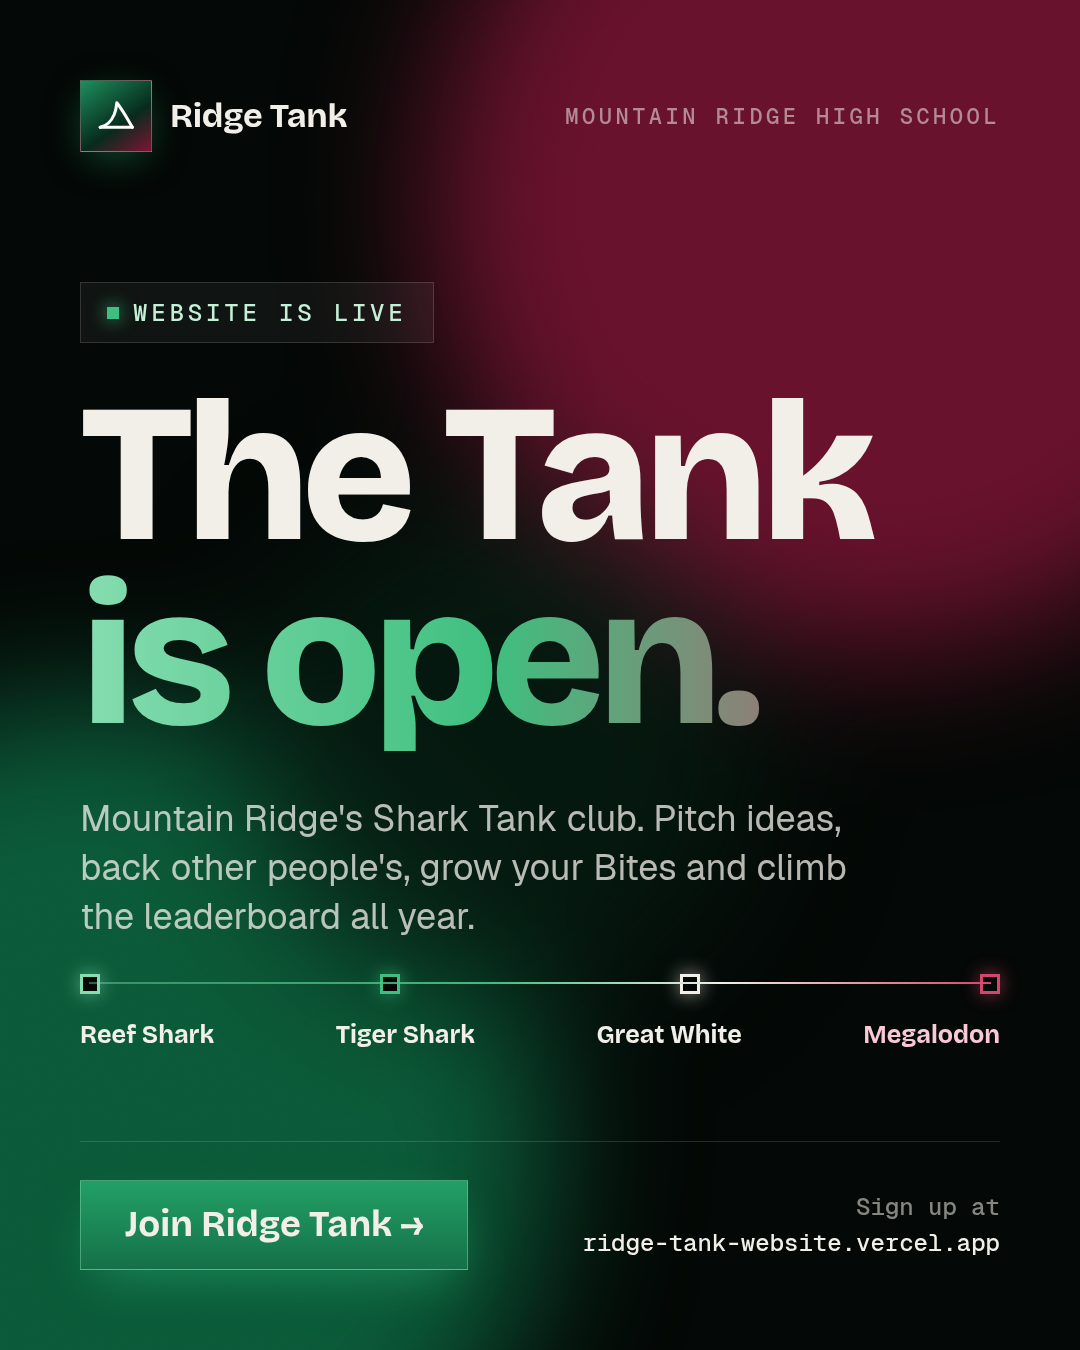
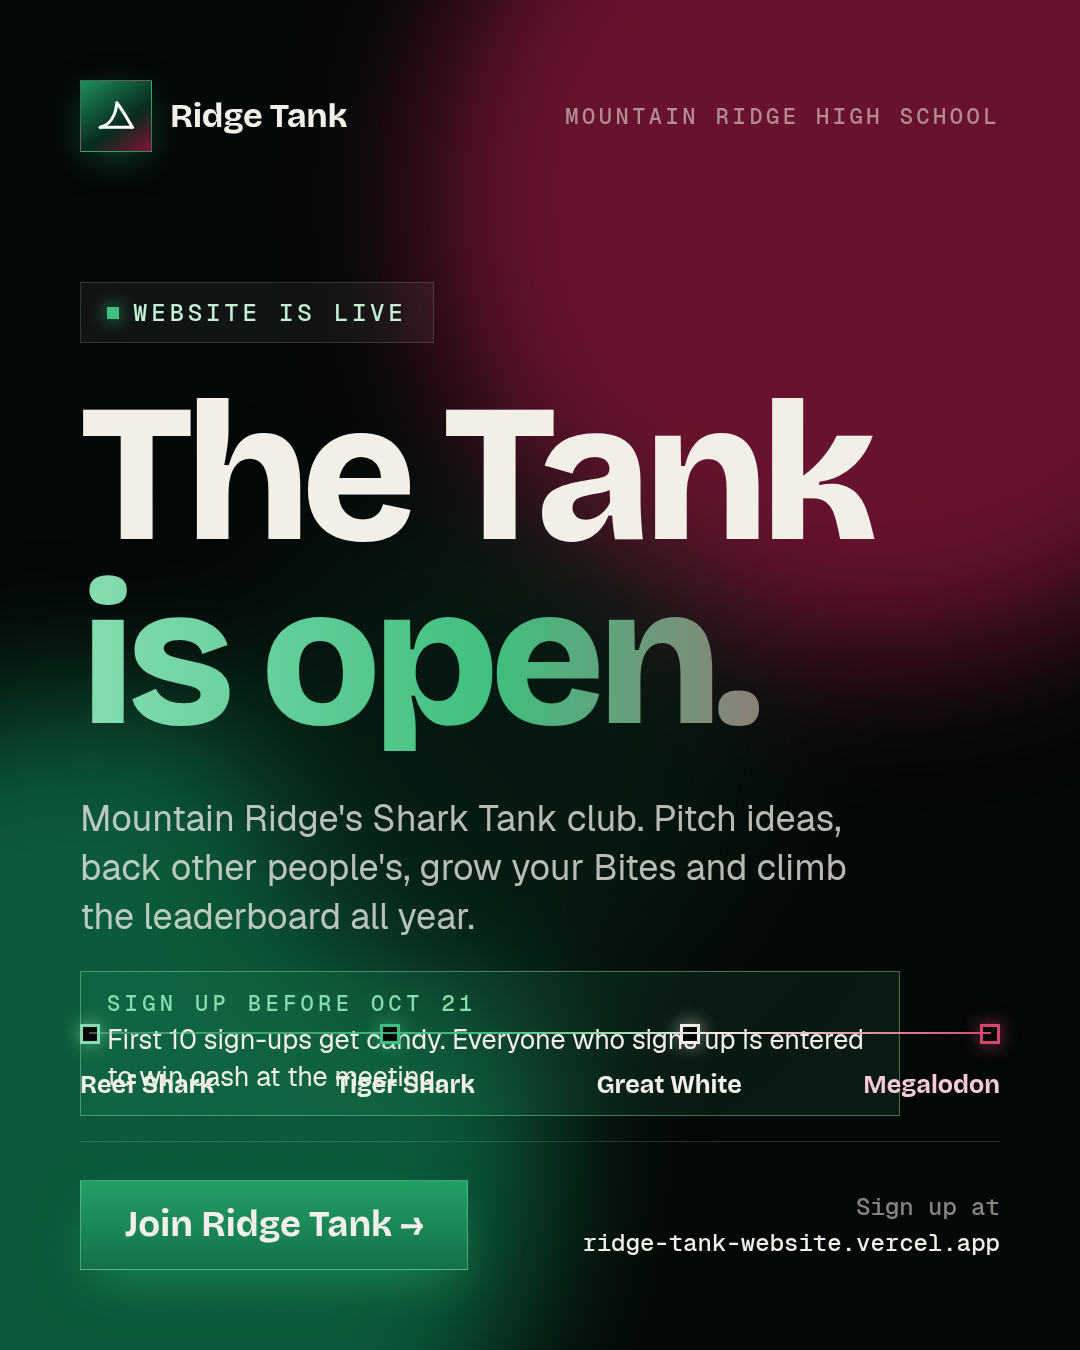
Sign-up incentive: landing promo, officer candy list + cash draw, poster update (#16)
Claude-Session: https://claude.ai/code/session_01BMEovW6ojWDG59xXo4X1Pt

Changed region(s): [[0.0611, 0.7156, 0.9472, 0.8089]]

diff --git a/js/market.js b/js/market.js
@@ -139,7 +139,8 @@
     const claimsBox = h('div', { class: 'card' });
     const bountyBox = h('div', { class: 'card' });
     const decayBox = h('div', { class: 'card' });
-    pane.append(h('div', { class: 'two-col' }, bountyBox, claimsBox), decayBox);
+    const rewardBox = h('div', { class: 'card' });
+    pane.append(h('div', { class: 'two-col' }, bountyBox, claimsBox), h('div', { class: 'two-col' }, rewardBox, decayBox));
 
     let bounties = [], claims = [];
     async function load() {
@@ -150,7 +151,32 @@
         return;
       }
       bounties = b.data; claims = c.data;
-      drawBounties(); drawClaims(); drawDecay();
+      drawBounties(); drawClaims(); drawDecay(); drawRewards();
+    }
+
+    // Sign-up rewards: who gets the candy (first 10 to sign up) and a random cash-prize draw.
+    function drawRewards() {
+      const members = [...(A.members || [])].sort((a, b) => new Date(a.created_at) - new Date(b.created_at));
+      const first = members.slice(0, 10);
+      const nextMeeting = (A.meetings || []).filter(m => m.meeting_date >= today()).sort((a, b) => (a.meeting_date < b.meeting_date ? -1 : 1))[0];
+      const cutoff = h('input', { class: 'input', type: 'date', value: nextMeeting ? nextMeeting.meeting_date : today() });
+      const winner = h('div', { class: 'winner', hidden: true });
+      const draw = h('button', { class: 'btn btn-primary', type: 'button' }, icon('sparkle', 16), 'Draw a winner');
+      draw.addEventListener('click', () => {
+        const limit = cutoff.value ? new Date(cutoff.value + 'T23:59:59') : new Date();
+        const pool = members.filter(m => new Date(m.created_at) <= limit);
+        if (!pool.length) { toast('No one signed up by that date.', 'error'); return; }
+        const pick = pool[Math.floor(Math.random() * pool.length)];
+        clear(winner).append(h('div', { class: 'muted small' }, 'Winner (' + pool.length + ' entered)'), h('div', { class: 'winner-name' }, pick.name));
+        winner.hidden = false;
+      });
+      clear(rewardBox).append(
+        h('div', { class: 'card-head' }, h('span', { class: 'card-label' }, 'Sign-up rewards'), h('span', { class: 'muted small' }, 'Candy + cash draw')),
+        h('p', { class: 'muted small' }, 'First 10 sign-ups get candy. Everyone signed up by the cutoff is entered in the cash draw. Do the draw live at the meeting.'),
+        h('div', { class: 'entry-list' }, first.length ? first.map((m, i) => h('div', { class: 'entry' },
+          h('span', { class: 'mono muted', style: { width: '22px' } }, String(i + 1)), avatar(m.name, 26), h('span', { class: 'grow ellipsis' }, m.name),
+          h('span', { class: 'muted small' }, fmtDate(m.created_at, { month: 'short', day: 'numeric' })))) : h('p', { class: 'muted small' }, 'No sign-ups yet.')),
+        h('div', { class: 'stack-sm reward-draw' }, h('label', { class: 'muted small' }, 'Entered if signed up by'), h('div', { class: 'row gap-sm' }, h('div', { class: 'grow' }, cutoff), draw), winner));
     }
 
     function drawBounties() {

diff --git a/marketing/poster-launch.html b/marketing/poster-launch.html
@@ -8,7 +8,10 @@
 h1{font:800 196px/.94 var(--display);letter-spacing:-.045em;margin-top:40px}
 h1 span{display:block;background:linear-gradient(90deg,var(--g-300),var(--g-400) 45%,var(--b-400));-webkit-background-clip:text;background-clip:text;color:transparent}
 .lede{position:relative;margin-top:44px;font-size:36px;line-height:1.35;color:var(--ink-2);max-width:820px}
-.tiers{position:absolute;left:80px;right:80px;bottom:300px}
+.perk{position:relative;margin-top:30px;max-width:820px;border:1px solid rgba(134,221,176,.45);background:rgba(63,191,127,.1);padding:20px 26px;display:flex;flex-direction:column;gap:8px}
+.perk b{font:500 22px/1 var(--mono);letter-spacing:.2em;color:var(--g-300)}
+.perk span{font-size:27px;line-height:1.35;color:var(--ink)}
+.tiers{position:absolute;left:80px;right:80px;bottom:250px}
 .track{position:relative;height:2px;background:linear-gradient(90deg,rgba(134,221,176,.4),var(--g-400) 45%,#f2efe8 70%,var(--b-400));margin:0 9px}
 .nodes{display:flex;justify-content:space-between;margin-top:-10px}
 .nodes div{width:20px;height:20px;background:var(--bg);border:3px solid;box-shadow:0 0 20px -2px currentColor}
@@ -23,6 +26,7 @@ h1 span{display:block;background:linear-gradient(90deg,var(--g-300),var(--g-400)
 <div class="top"><div class="brand"><span class="mark" style="width:72px;height:72px"><svg viewBox="0 0 24 24"><path d="M2.5 18.5c3.4-.7 6.4-3.2 8.2-7.4.9-2.2 1.4-4.6 1.6-7.1 3.2 3.9 6.1 9.2 9.2 14.5"/><path d="M2.5 18.5h19"/></svg></span>Ridge Tank</div><div class="mono">Mountain Ridge High School</div></div>
 <div class="body"><div class="pill mono">Website is live</div><h1>The Tank<span>is open.</span></h1></div>
 <p class="lede">Mountain Ridge's Shark Tank club. Pitch ideas, back other people's, grow your Bites and climb the leaderboard all year.</p>
+<div class="perk"><b>SIGN UP BEFORE OCT 21</b><span>First 10 sign-ups get candy. Everyone who signs up is entered to win cash at the meeting.</span></div>
 <div class="tiers"><div class="track"></div><div class="nodes"><div style="color:var(--g-300)"></div><div style="color:var(--g-400)"></div><div style="color:#f2efe8"></div><div style="color:var(--b-400)"></div></div>
 <div class="names"><span>Reef Shark</span><span>Tiger Shark</span><span>Great White</span><span>Megalodon</span></div></div>
 <div class="cta"><div class="btn">Join Ridge Tank &rarr;</div><div class="url">Sign up at<br><b>ridge-tank-website.vercel.app</b></div></div>

diff --git a/index.html b/index.html
@@ -14,7 +14,7 @@
   <link rel="preconnect" href="https://fonts.googleapis.com">
   <link rel="preconnect" href="https://fonts.gstatic.com" crossorigin>
   <link rel="stylesheet" href="https://fonts.googleapis.com/css2?family=Bricolage+Grotesque:opsz,wdth,wght@12..96,75..100,300..800&family=Geist:wght@300..700&family=Geist+Mono:wght@400..600&display=swap">
-  <link rel="stylesheet" href="css/styles.css?v=35">
+  <link rel="stylesheet" href="css/styles.css?v=36">
 </head>
 <body>
   <canvas id="bg" aria-hidden="true"></canvas>
@@ -39,18 +39,18 @@
   </noscript>
 
   <!-- Bump ?v= whenever these files change so browsers fetch the new copy. -->
-  <script src="js/config.js?v=35"></script>
-  <script src="js/mesh.js?v=35"></script>
-  <script src="js/intro.js?v=35"></script>
+  <script src="js/config.js?v=36"></script>
+  <script src="js/mesh.js?v=36"></script>
+  <script src="js/intro.js?v=36"></script>
   <script src="https://cdn.jsdelivr.net/npm/@supabase/supabase-js@2"></script>
-  <script src="js/ui.js?v=35"></script>
-  <script src="js/dots.js?v=35"></script>
-  <script src="js/spotlight.js?v=35"></script>
-  <script src="js/data.js?v=35"></script>
-  <script src="js/market.js?v=35"></script>
-  <script src="js/member.js?v=35"></script>
-  <script src="js/chat.js?v=35"></script>
-  <script src="js/admin.js?v=35"></script>
-  <script src="js/app.js?v=35"></script>
+  <script src="js/ui.js?v=36"></script>
+  <script src="js/dots.js?v=36"></script>
+  <script src="js/spotlight.js?v=36"></script>
+  <script src="js/data.js?v=36"></script>
+  <script src="js/market.js?v=36"></script>
+  <script src="js/member.js?v=36"></script>
+  <script src="js/chat.js?v=36"></script>
+  <script src="js/admin.js?v=36"></script>
+  <script src="js/app.js?v=36"></script>
 </body>
 </html>

diff --git a/css/styles.css b/css/styles.css
@@ -1457,5 +1457,12 @@ html[data-theme="light"] .tier-chip.tier-tiger { color: #0c4a30; }
 html[data-theme="light"] .tier-chip.tier-mega { color: #7e1434; }
 .theme-btn .ico svg { width: 18px; height: 18px; }
 
+.promo { display: flex; flex-direction: column; gap: 6px; max-width: 560px; margin: 4px auto 0; padding: 16px 22px; text-align: center; border: 1px solid rgba(63, 191, 127, 0.4); background: rgb(var(--tint) / 0.05); }
+.promo strong { color: var(--g-300); font: 500 12px/1.2 var(--font-mono); letter-spacing: 0.14em; text-transform: uppercase; }
+.promo span { color: var(--ink-2); font-size: 15px; line-height: 1.45; }
+.reward-draw { margin-top: 22px; }
+.winner { padding: 18px; text-align: center; border: 1px solid rgba(63, 191, 127, 0.45); background: rgba(63, 191, 127, 0.1); }
+.winner-name { font: 800 34px/1.1 var(--font-display); margin-top: 6px; color: var(--g-200); }
+
 /* Everything is square, whatever rule or browser default says otherwise. */
 *, *::before, *::after { border-radius: 0 !important; }

diff --git a/js/app.js b/js/app.js
@@ -531,6 +531,7 @@
             ? h('a', { class: 'btn btn-primary btn-lg', href: '#/home' }, 'Go to your dashboard', icon('arrowRight', 18))
             : [h('a', { class: 'btn btn-primary btn-lg', href: '#/signup' }, 'Join Ridge Tank', icon('arrowRight', 18)),
                h('a', { class: 'btn btn-ghost btn-lg', href: '#/login' }, 'Log in')]),
+        (!S.me && cfg.promo) ? h('div', { class: 'promo reveal', style: { '--i': 5 } }, h('strong', null, cfg.promo.title), h('span', null, cfg.promo.text)) : null,
         h('div', { class: 'hero-meta reveal', style: { '--i': 5 } },
           h('span', null, icon('nfc', 16), 'Tap in with your card'),
           h('span', null, icon('trophy', 16), 'Season ' + cfg.season.replace('-', '–')),

diff --git a/js/config.js b/js/config.js
@@ -27,6 +27,12 @@ window.RT_CONFIG = {
   social: [],
 
   // Opening animation timing in milliseconds.
+  // Sign-up incentive shown on the landing page for people who aren't members yet. Set to null to hide it.
+  promo: {
+    title: 'Sign up before the first meeting',
+    text: 'The first 10 sign-ups get candy. Everyone who signs up is entered to win cash, drawn live at the meeting.'
+  },
+
   intro: { form: 1700, hold: 1900, disperse: 2000 },
 
   // Background swirl edges: 'soft' (smooth blur), 'medium', 'sharp', or 'crisp' (no blur).
